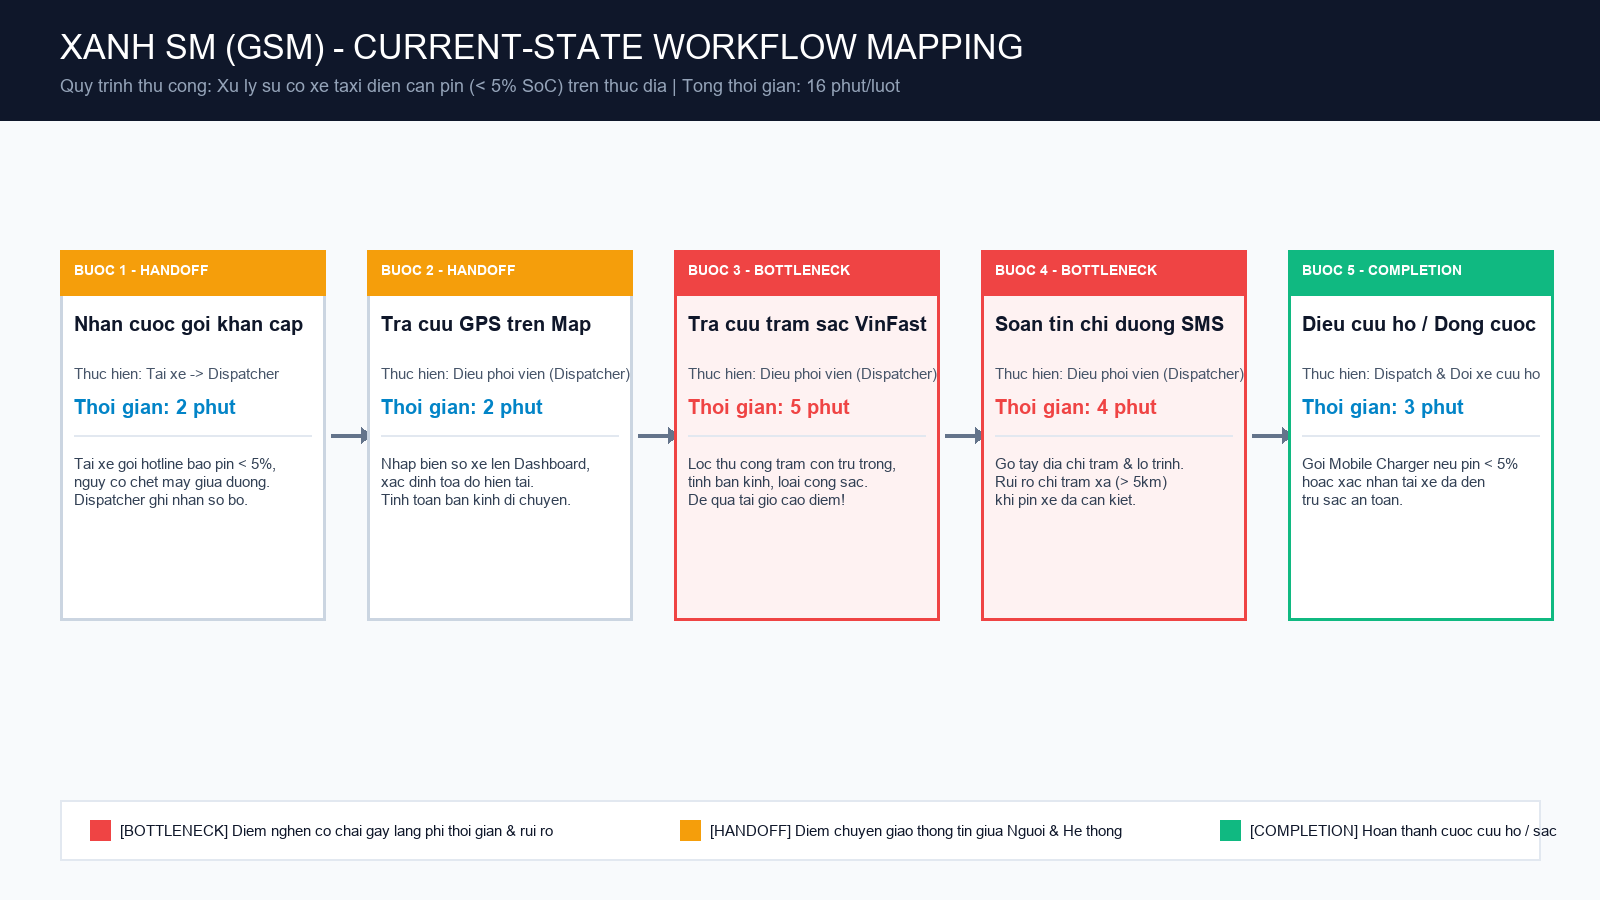
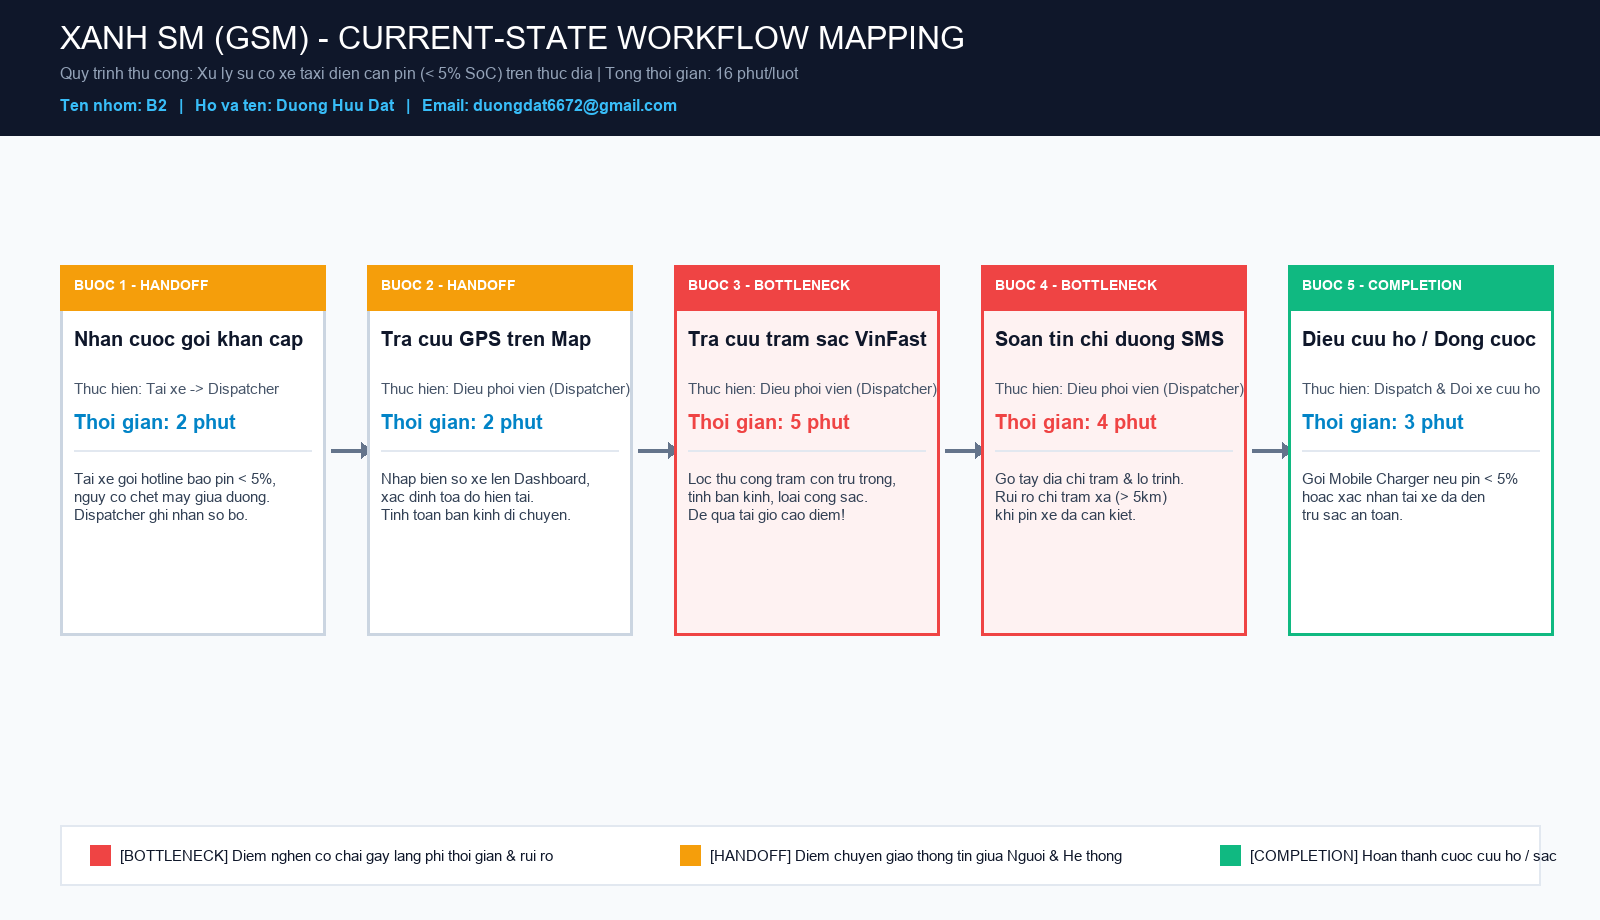
DuongHuuDat

diff --git a/starter-code/prompt_prototype.py b/starter-code/prompt_prototype.py
@@ -1,6 +1,10 @@
 """
 Day 2 — AI Product Scoping (Vin Smart Future)
-Lightweight Prompt Boundary Prototyping (Starter Code)
+Lightweight Prompt Boundary Prototyping
+
+Tên nhóm: B2
+Họ và tên: Dương Hữu Đạt
+Email: duongdat6672@gmail.com
 
 Instructions:
     1. Define your strict SYSTEM_PROMPT below, detailing the operational boundaries.

diff --git a/02-deep-dive-report.md b/02-deep-dive-report.md
@@ -1,9 +1,11 @@
 # 02 — Báo Cáo Phân Tích Sâu (Deep-Dive Report): Xanh SM Intelligent Battery Dispatcher
 
+**Tên nhóm:** B2  
+**Họ và tên:** Dương Hữu Đạt  
+**Email:** duongdat6672@gmail.com  
 **Dự án:** Trợ lý Điều phối Sự cố Pin & Điều vận Xe Cứu hộ Thông minh  
 **Đơn vị phát triển:** Vin Smart Future (Vingroup)  
 **Đơn vị thụ hưởng:** Khối Vận Hành Xanh SM (GSM) & Hệ sinh thái Trạm sạc VinFast  
-**Kỹ sư phụ trách:** Dương Hữu Đạt  
 
 ---
 

diff --git a/03-ai-log.md b/03-ai-log.md
@@ -1,6 +1,8 @@
 # 03 — AI Log & Reflection (Nhật Ký Tương Tác và Phản Tư Kỹ Thuật AI)
 
-**Học viên / Kỹ sư:** Dương Hữu Đạt  
+**Tên nhóm:** B2  
+**Họ và tên:** Dương Hữu Đạt  
+**Email:** duongdat6672@gmail.com  
 **Dự án:** Xanh SM Intelligent Battery Dispatcher (Vin Smart Future)  
 **Mô hình sử dụng làm Thought-Partner:** Google Gemini 2.5 Flash, Claude 3.7 Sonnet, ChatGPT  
 

diff --git a/01-problem-scan.md b/01-problem-scan.md
@@ -1,6 +1,8 @@
 # 01 — Problem Scan & Quick Problem Cards (Vin Smart Future)
 
-**Kỹ sư thực hiện:** Dương Hữu Đạt  
+**Tên nhóm:** B2  
+**Họ và tên:** Dương Hữu Đạt  
+**Email:** duongdat6672@gmail.com  
 **Đơn vị:** Vin Smart Future (Phối hợp cùng Khối Vận Hành Xanh SM - GSM)  
 **Chi nhánh / Mảng:** Vận tải hành khách & Đội xe điện thông minh (EV Fleet Operations)  
 
